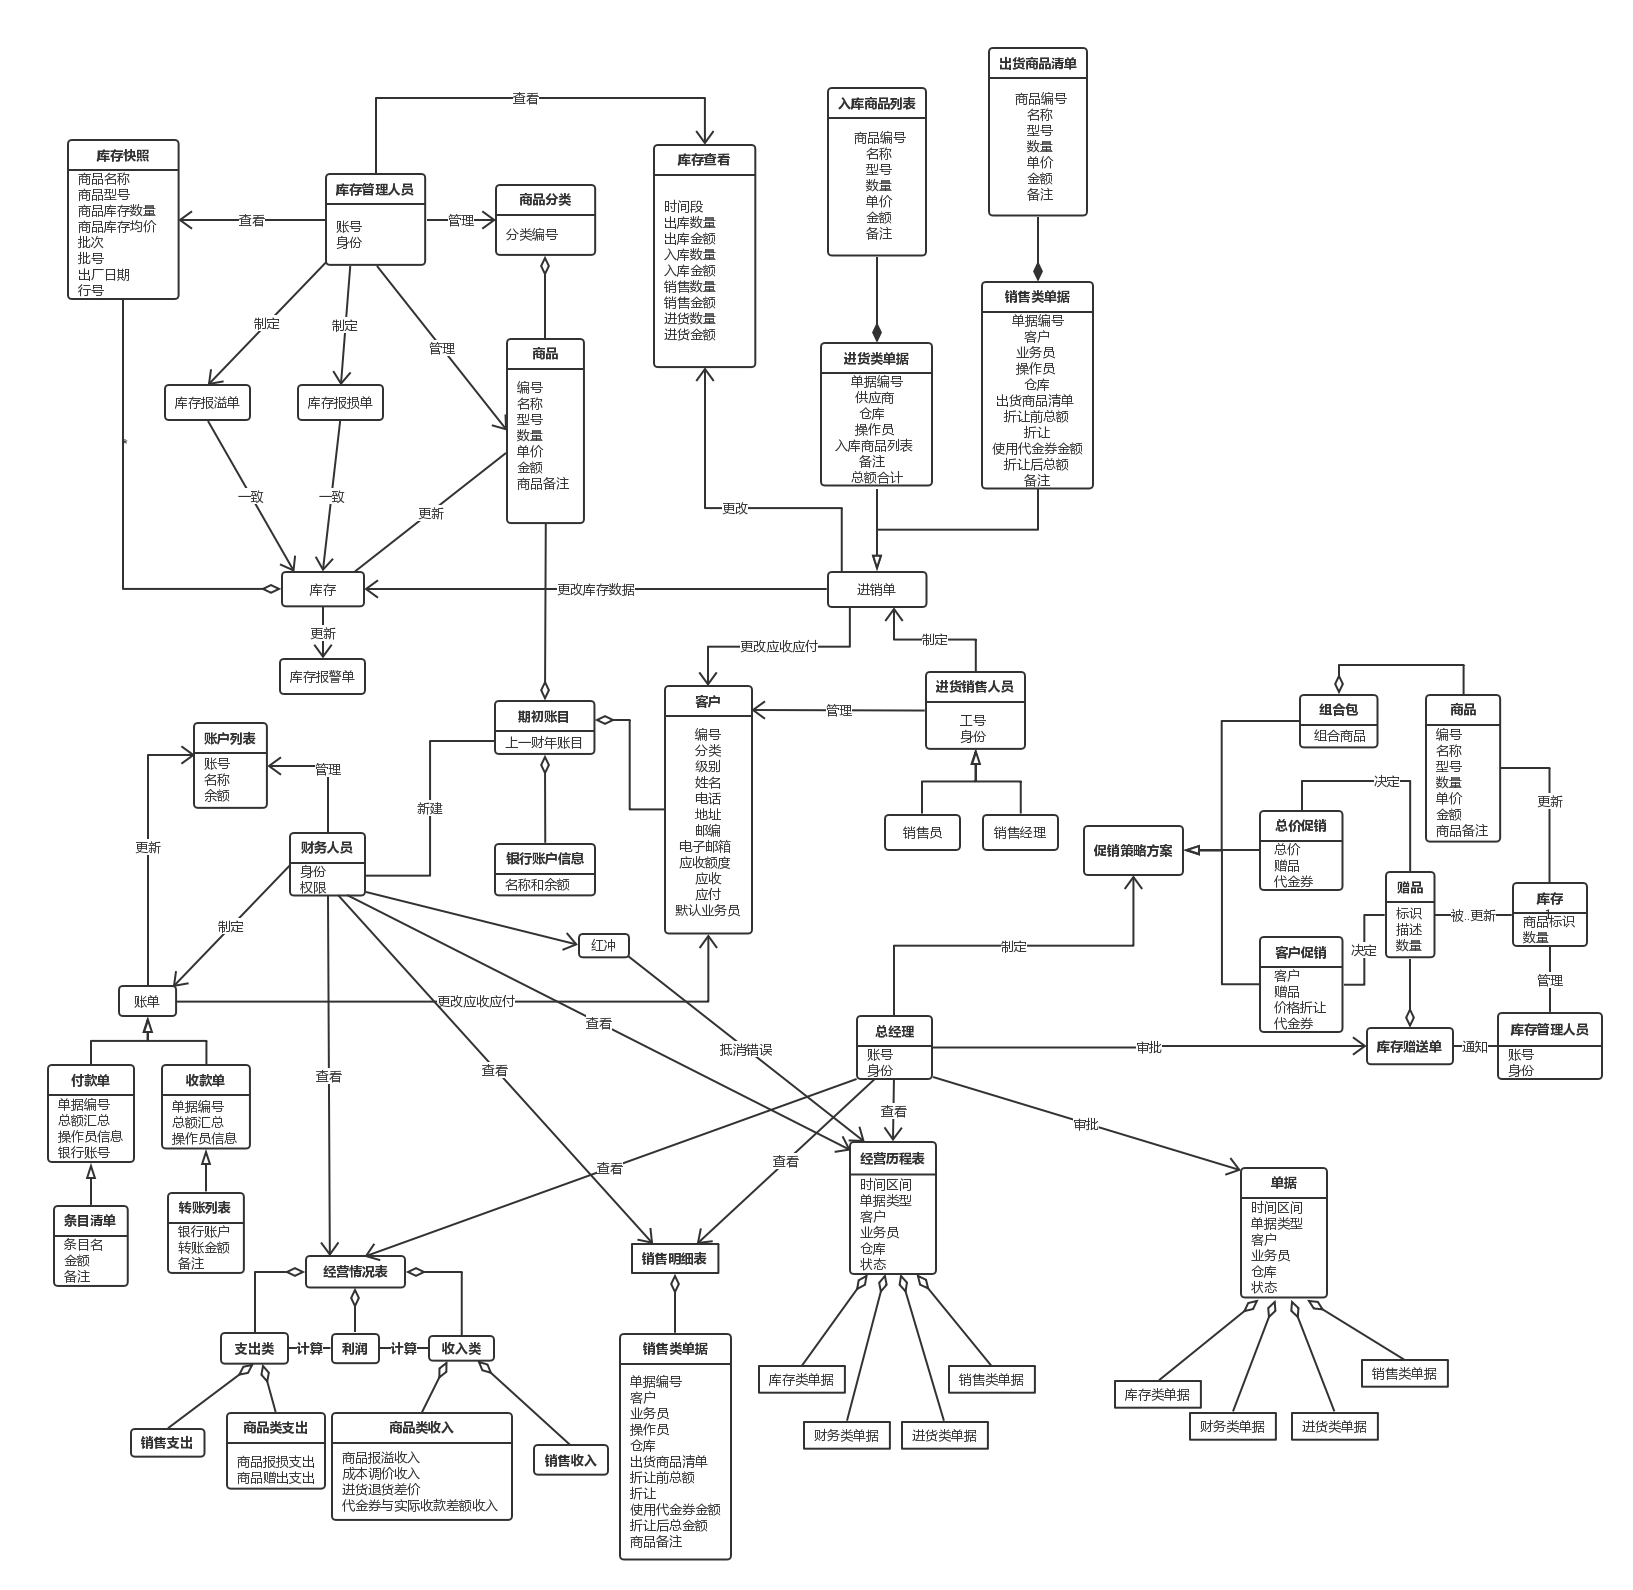
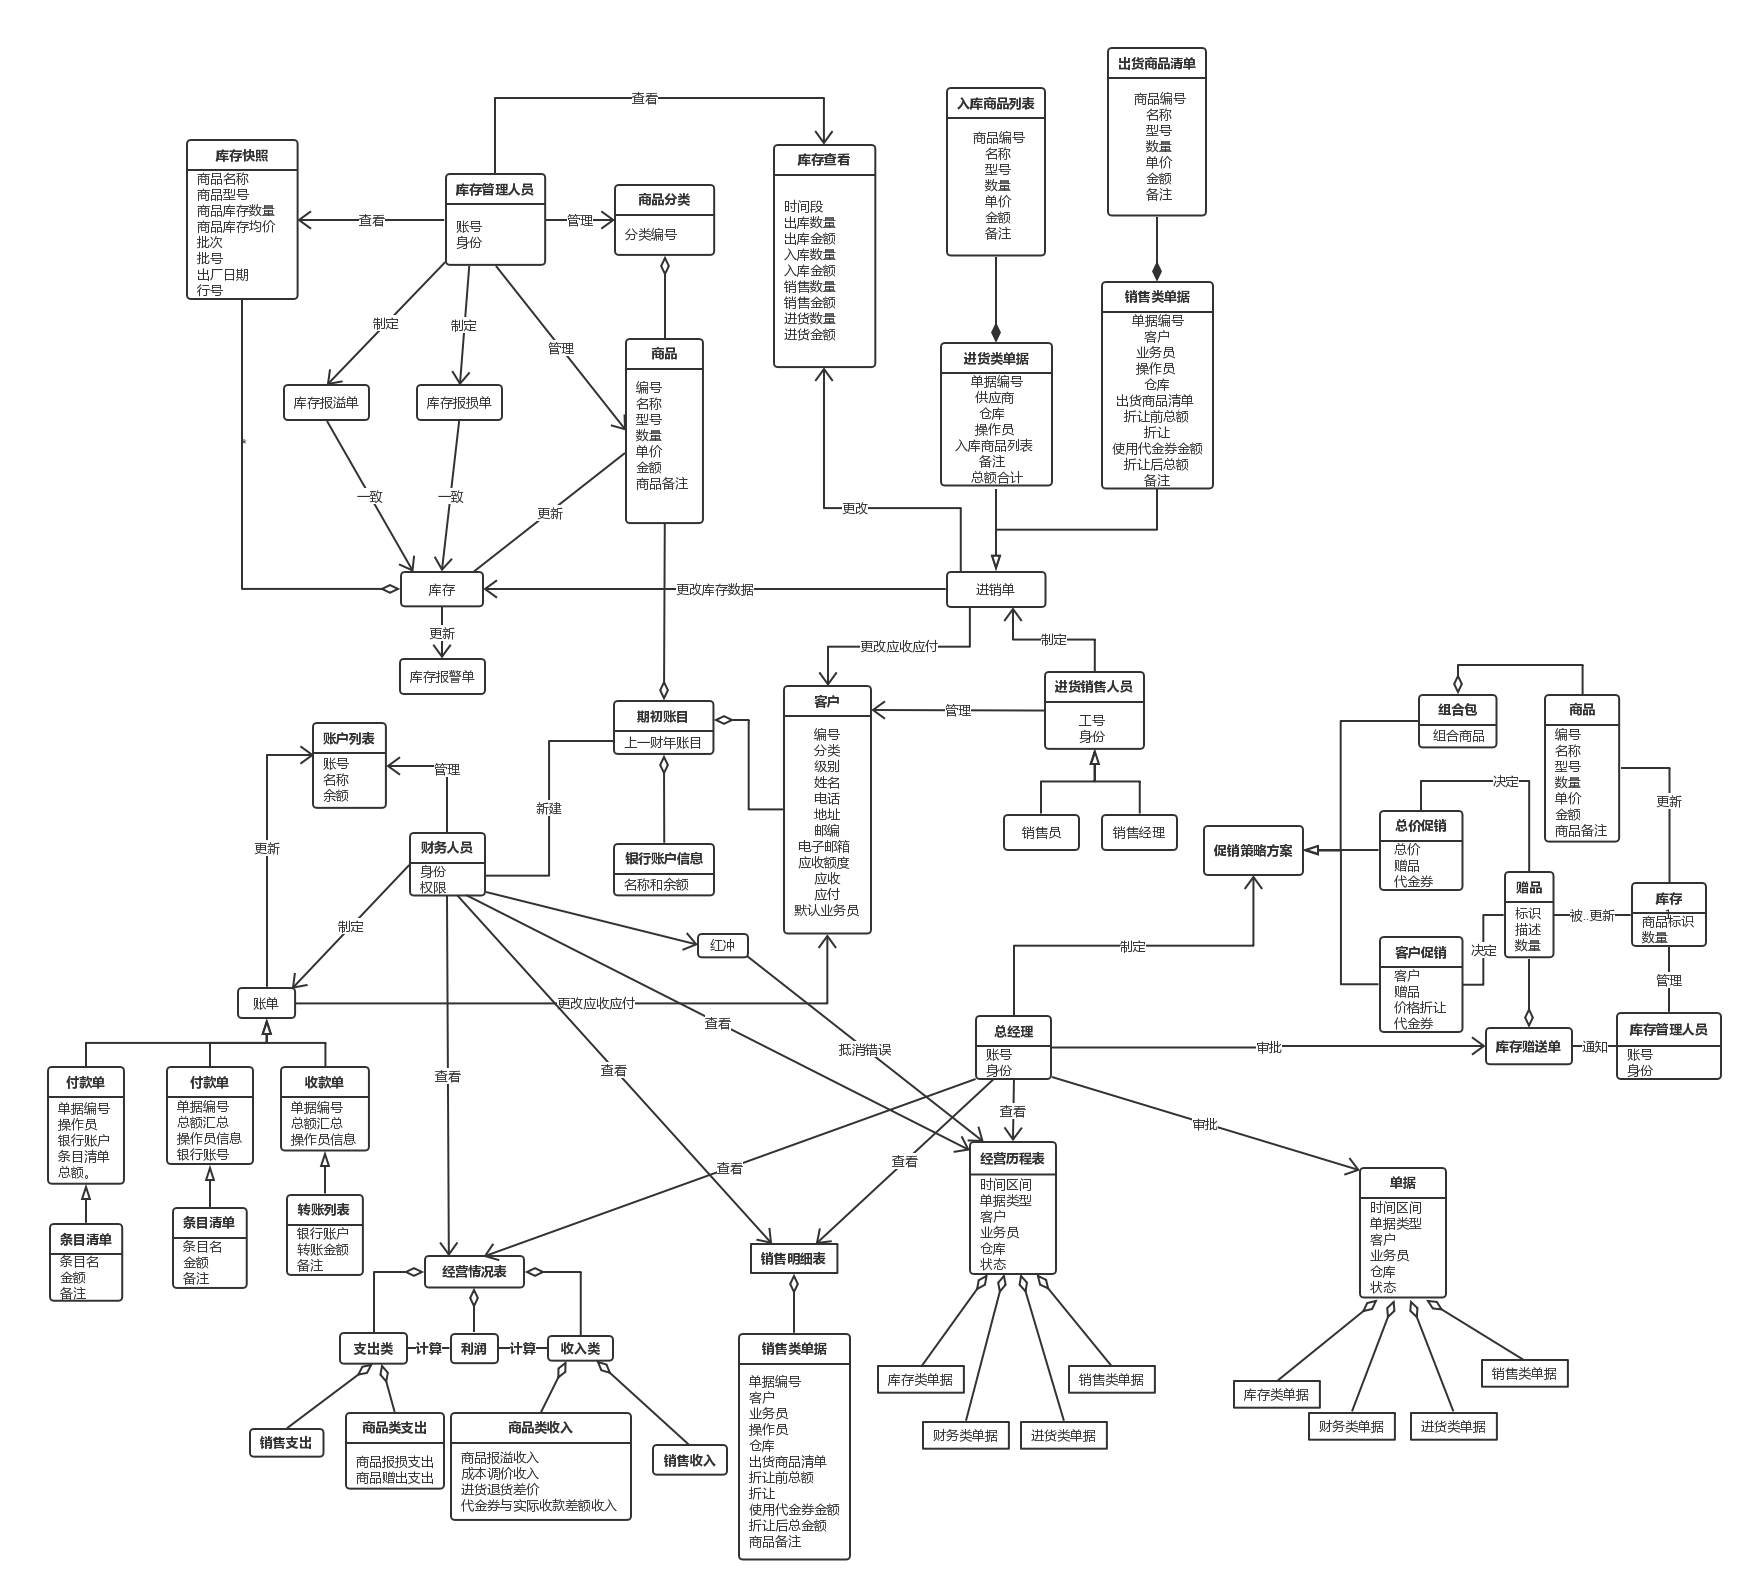
对之前的图中错误的部分的修正

diff --git a/doc/md/用例文档/用例文档.md b/doc/md/用例文档/用例文档.md
@@ -37,10 +37,11 @@
 #2用例列表#
 | **参与者** | **用例**                                   |
 | ------- | ---------------------------------------- |
-| 库存管理人员  | 商品分类管理（ID：01）<br/>商品管理（ID：02）<br/>库存查看（ID：03）<br/>库存盘点（ID：04）<br/>建立库存赠送单（ID：05）<br/>建立库存报溢单（ID：06）<br/>建立库存报损单（ID：07）<br/>建立库存报警单（ID：08）<br/> |
-| 进货销售人员  | 客户管理（ID：10）<br/>制定进货单（ID：11）<br/>制定进货退货单（ID：12）<br/>制定销售单（ID：13）<br/>制定销售退货单（ID：14）<br/> |
-| 财务人员    | 账户管理（ID：15）<br/>账户增删改查（ID：16）<br/>制定收款单（ID：17）<br/>制定付款单（ID：18）<br/>期初建账（ID：19）<br/>查看销售明细表（ID：20）<br/>查看经营历程表（ID：21）<br/>查看经营情况表（ID：22）<br/> |
-| 总经理     | 查看销售明细表（ID：20）<br/>查看经营历程表（ID：21）<br/>查看经营情况表（ID：22）<br/>审批单据（ID：23）<br/>制定促销策略（ID：24）<br/> |
+| 库存管理人员  | 商品分类管理（ID：01）<br/>商品管理（ID：02）<br/>库存查看（ID：03）<br/>库存盘点（ID：04）<br/>建立库存报溢单（ID：05）<br/>建立库存报损单（ID：06）<br/>建立库存报警单（ID：07） |
+| 进货销售人员  | 客户管理（ID：08）<br/>制定进货单（ID：09）<br/>制定进货退货单（ID：10）<br/>制定销售单（ID：11）<br/>制定销售退货单（ID：12） |
+| 财务人员    | 账户管理（ID：13）<br/>制定收款单（ID：14）<br/>制定付款单（ID：15）<br/>制定现金费用单（ID：16）<br/>期初建账（ID：17）<br/>查看销售明细表（ID：18）<br/>查看经营历程表（ID：19）<br/>查看经营情况表（ID：20） |
+| 总经理     | 审批单据（ID：21）<br/>制定促销策略（ID：22）<br/>       |
+| 管理员     | 账号管理（ID：23）                              |
 
 <br/>
 <br/>
@@ -189,7 +190,7 @@
 | **后置条件**    | 记录折让数额，更新出入库账单，后台记录                      |
 | **优先级**     | 中                                        |
 | **正常流程**    | 1.系统显示已有的客户信息列表，以及提供搜索窗口<br/>2.进货销售人员查找客户，并点击该客户的信息。<br/>3.进货销售人员选择要进行的功能（增加.删除.修改.查询）<br/>4.完成相应操作，系统提示操作成功 |
-| **扩展流程**    | 2a.输入的信息没有匹配的用户:<br/>&emsp;1.系统做出提示<br/>3a.增加一个已存在的用户(姓名.联系方式相同):<br/>&emsp;1.系统错误提示：用户已存在<br/>3b.输入非法数据(进行增加和修改时):<br/>&emsp;1.在最后确认时，系统提示输入错误<br/>2c.删除用户时:<br/>&emsp;1.要有一个确认的窗口 |
+| **扩展流程**    | 2a.输入的信息没有匹配的用户:<br/>&emsp;1.系统做出提示<br/>3a.增加一个已存在的用户(姓名.联系方式相同):<br/>&emsp;1.系统错误提示：用户已存在<br/>3b.输入非法数据(进行增加和修改时):<br/>&emsp;1.在最后确认时，系统提示输入错误<br/>3c.删除用户时:<br/>&emsp;1.要有一个确认的窗口 |
 | **特殊要求**    | 1.客户编号必须指定且唯一，8位数字。<br/>2.客户全称不能超过20个字符。<br/>3.客户电话号码不能超过20个字符。<br/>4.显示客户信息的界面包含了客户的个人资料和交易信息。<br/>5.客户的属性有：编号.分类（进货商.销售商）.级别（五级，一级普通，五级VIP）.姓名.电话.地址.邮编.电子邮箱.应收额度.应收.应付.默认业务员。<br/>6.其中，应收和应付不直接显示，而是在每一次交易中记录。 |
 
 
@@ -208,7 +209,7 @@
 | **优先级**     | 较高                                       |
 | **正常流程**    | 1.点击新建单据按钮，自动生成单据ID<br/>2.从供应商列表选择供应商<br/>3.系统显示该供应商的所有商品<br/>4.进货销售人员选择相应的物品，进行进货处理<br/>进货销售人员重复3-4步直到完成所有商品的输入<br/>5.进货销售人员手动输入备注等信息。<br/>6.单据生成<br/>7.单据上传，系统提示操作成功 |
 | **扩展流程**    | 1a.单据超过99999条时：<br/>&emsp;1.系统提示超过单日进货单上限<br/>2a.供应商不存在（新的供应商）:<br/>&emsp;1.跳转至客户管理界面<br/>4a.有复数同一种商品要进货时：<br/>&emsp;1.可以手动输入数量<br/>3-5a.供应商要追加或减少供货：<br/>&emsp;1.进货销售人员可以手动编辑物品清单<br/>2-6a.供应商要求取消交易:<br/>&emsp;1.直接关闭界面 |
-| **特殊要求**    | 1.进货单应该包括：单据编号，供应商，仓库，操作员，入库商品列表，备注，总额合计。<br/>2.单据编号格式为：JHD-yyyyMMdd-xxxxx，后五位每天从1开始编号，所以一天最多可以生成99999条单子）<br/>3.入库商品列表包含的信息有：商品编号，型号，金额，名称（从商品选择界面进行选择），数量（手动输入），单价（默认为商品信息中的进价），备注（手动输入）。<br/>4.必须输入商品数量（正整数），备注无所谓。<br/>5.每次添加商品后，自动计算总价并显示。<br/>6.进货单通过审批后，会更改库存数据。 |
+| **特殊要求**    | 1.进货单应该包括：单据编号，供应商，仓库，操作员，入库商品列表，备注，总额合计。<br/>2.单据编号格式为：JHD-yyyyMMdd-xxxxx，后五位每天从1开始编号，所以一天最多可以生成99999条单子）<br/>3.入库商品列表包含的信息有：商品编号，型号，金额，名称（从商品选择界面进行选择），数量（手动输入），单价（默认为商品信息中的进价），备注（手动输入）。<br/>4.必须输入商品数量（正整数），备注无所谓。<br/>5.每次添加商品后，自动计算总价并显示。<br/>6.进货单通过审批后，会更改库存数据和客户的应收应付数据。 |
 
 
 
@@ -226,7 +227,7 @@
 | **优先级**     | 高                                        |
 | **正常流程**    | 1.点击新建单据按钮，自动生成单据ID<br/>2.从供应商列表选择供应商<br/>3.系统显示该供应商的所有商品<br/>4.进货销售人员选择相应的物品，进行退货处理<br/>进货销售人员重复3-4步直到完成所有商品的输入<br/>5.进货销售人员手动输入备注等信息。<br/>6.单据生成<br/>7.单据上传，系统提示操作成功 |
 | **扩展流程**    | 1a.单据超过99999条时：<br/>&emsp;1.系统提示超过单日进货退货单上限<br/>4a.有复数同一种商品要退货时：<br/>&emsp;1.可以手动输入数量<br/>2-6a.公司要求取消交易:<br/>&emsp;1.直接关闭界面 |
-| **特殊要求**    | 1.进货退货单应该包括：单据编号，供应商，仓库，操作员，入库商品列表，备注，总额合计。<br/>2.单据编号格式为：JHTHD-yyyyMMdd-xxxxx，后五位每天从1开始编号，所以一天最多可以生成99999条单子）<br/>3.出库商品列表包含的信息有：商品编号，型号，金额，名称（从商品选择界面进行选择），数量（手动输入），单价（默认为商品信息中的进价），备注（手动输入）。<br/>4.必须输入商品数量（正整数），备注无所谓。<br/>5.每次添加商品后，自动计算总价并显示。<br/>6.进货退货单通过审批后，会更改库存数据。 |
+| **特殊要求**    | 1.进货退货单应该包括：单据编号，供应商，仓库，操作员，入库商品列表，备注，总额合计。<br/>2.单据编号格式为：JHTHD-yyyyMMdd-xxxxx，后五位每天从1开始编号，所以一天最多可以生成99999条单子）<br/>3.出库商品列表包含的信息有：商品编号，型号，金额，名称（从商品选择界面进行选择），数量（手动输入），单价（默认为商品信息中的进价），备注（手动输入）。<br/>4.必须输入商品数量（正整数），备注无所谓。<br/>5.每次添加商品后，自动计算总价并显示。<br/>6.进货退货单通过审批后，会更改库存数据和客户的应收应付数据。 |
 
 
 
@@ -244,7 +245,7 @@
 | **优先级**     | 较高                                       |
 | **正常流程**    | 1.点击新建单据按钮，自动生成单据ID<br/>2.从销售商列表选择销售商<br/>3.系统显示所有在库商品<br/>4.进货销售人员选择相应的物品，进行销售处理<br/>进货销售人员重复3-4步直到完成所有商品的输入<br/>5.进货销售人员输入折让的人员和额度<br/>6.手动输入备注等信息。<br/>7.单据生成<br/>8.单据上传，系统提示操作成功 |
 | **扩展流程**    | 1a.单据超过99999条时：<br/>&emsp;1.系统提示超过单日销售单上限<br/>2a.销售商不存在（新的销售商）:<br/>&emsp;1.跳转至客户管理界面<br/>4a.有复数同一种商品要销售时：<br/>&emsp;1.可以手动输入数量<br/>5a.销售人员输入的折让额度超过权限：<br/>&emsp;1.系统提示重新输入2-9a.销售商要求取消交易:<br/>&emsp;1.直接关闭界面 |
-| **特殊要求**    | 1.销售单应该包括:单据编号，客户，业务员，操作员，仓库，出货商品清单，折让前总额，折让，使用代金卷金额，折让后总额，备注。<br/>2.单据编号格式为：XSD-yyyyMMdd-xxxxx，后五位每天从1开始编号，所以一天最多可以生成99999条单子）<br/>3.出库商品列表包含的信息有：商品的编号，型号，金额（自动生成），名称（从商品选择界面选择），数量（手工输入），单价（默认为商品信息里的销售价，可修改），商品备注。<br/>4.必须输入商品数量（正整数），备注无所谓。<br/>5.每次添加商品后，自动计算总价并显示。<br/>6.销售单通过审批后，会更改库存数据。 |
+| **特殊要求**    | 1.销售单应该包括:单据编号，客户，业务员，操作员，仓库，出货商品清单，折让前总额，折让，使用代金卷金额，折让后总额，备注。<br/>2.单据编号格式为：XSD-yyyyMMdd-xxxxx，后五位每天从1开始编号，所以一天最多可以生成99999条单子）<br/>3.出库商品列表包含的信息有：商品的编号，型号，金额（自动生成），名称（从商品选择界面选择），数量（手工输入），单价（默认为商品信息里的销售价，可修改），商品备注。<br/>4.必须输入商品数量（正整数），备注无所谓。<br/>5.每次添加商品后，自动计算总价并显示。<br/>6.销售单通过审批后，会更改库存数据和客户的应收应付数据。 |
 
 
 
@@ -262,7 +263,7 @@
 | **优先级**     | 高                                        |
 | **正常流程**    | 1.点击新建单据按钮，自动生成单据ID<br/>2.从销售商列表选择销售商<br/>3.系统显示改销售商购买的商品<br/>4.进货销售人员选择相应的物品，进行退货处理<br/>5.进货销售人员手动输入备注等信息。<br/>进货销售人员重复4-5步直到完成所有商品的输入<br/>6.单据生成<br/>7.单据上传，系统提示操作成功 |
 | **扩展流程**    | 1a.单据超过99999条时：<br/>&emsp;1.系统提示超过单日销售单上限<br/>4a.有复数同一种商品要退货时：<br/>&emsp;1.可以手动输入数量<br/>2-8a.销售商要求取消交易:<br/>&emsp;1.直接关闭界面 |
-| **特殊要求**    | 1.销售退货单应该包括：单据编号，客户，业务员，操作员，仓库，出货商品清单，总额，备注。<br/>2.单据编号格式为：XSTHD-yyyyMMdd-xxxxx，后五位每天从1开始编号，所以一天最多可以生成99999条单子）<br/>3.退货商品列表包含的信息有：商品的编号，型号，金额（自动生成），名称（从商品选择界面选择），数量手工输入），单价（默认为商品信息里的销售价，可修改），商品备注。<br/>4.必须输入商品数量（正整数），备注无所谓。<br/>5.每次添加商品后，自动计算总价并显示。<br/>6.销售退货单通过审批后，会更改库存数据。 |
+| **特殊要求**    | 1.销售退货单应该包括：单据编号，客户，业务员，操作员，仓库，退货商品清单，总额，备注。<br/>2.单据编号格式为：XSTHD-yyyyMMdd-xxxxx，后五位每天从1开始编号，所以一天最多可以生成99999条单子）<br/>3.退货商品清单包含的信息有：商品的编号，型号，金额（自动生成），名称（从商品选择界面选择），数量手工输入），单价（默认为商品信息里的销售价，可修改），商品备注。<br/>4.必须输入商品数量（正整数），备注无所谓。<br/>5.每次添加商品后，自动计算总价并显示。<br/>6.销售退货单通过审批后，会更改库存数据和客户的应收应付数据。 |
 
 
 
@@ -320,7 +321,7 @@
 
 
 
-| **ID**      | 16                                       |
+| **ID**      | 17                                       |
 | ----------- | ---------------------------------------- |
 | **名称**      | 期初建账                                     |
 | **创建者**     | 王宁                                       |
@@ -338,7 +339,7 @@
 
 
 
-| **ID**     | 17                                       |
+| **ID**     | 18                                       |
 | ---------- | ---------------------------------------- |
 | **名称**     | 查看销售明细表                                  |
 | **创建者**    | 陈思彤                                      |
@@ -356,7 +357,7 @@
 
 
 
-| **ID**     | 18                                       |
+| **ID**     | 19                                       |
 | ---------- | ---------------------------------------- |
 | **名称**     | 查看经营历程表                                  |
 | **创建者**    | 陈思彤                                      |
@@ -374,7 +375,7 @@
 
 
 
-| **ID**     | 19                                       |
+| **ID**     | 20                                       |
 | ---------- | ---------------------------------------- |
 | **名称**     | 查看经营情况表                                  |
 | **创建者**    | 陈思彤                                      |
@@ -392,7 +393,7 @@
 
 
 
-| **ID**     | 20                                       |
+| **ID**     | 21                                       |
 | ---------- | ---------------------------------------- |
 | **名称**     | 审批单据                                     |
 | **创建者**    | 陈思彤                                      |
@@ -410,7 +411,7 @@
 
 
 
-| **ID**     | 21                                       |
+| **ID**     | 22                                       |
 | ---------- | ---------------------------------------- |
 | **名称**     | 制定促销策略                                   |
 | **创建者**    | 陈思彤                                      |
@@ -428,7 +429,7 @@
 
 
 
-| **ID**     | 22                                       |
+| **ID**     | 23                                       |
 | ---------- | ---------------------------------------- |
 | **名称**     | 账号管理                                     |
 | **创建者**    | 陈思彤                                      |
@@ -450,7 +451,5 @@
 <br/>
 <br/>
 
-#4.用例图#
-与本用例文档在同一文件夹下
 
 
